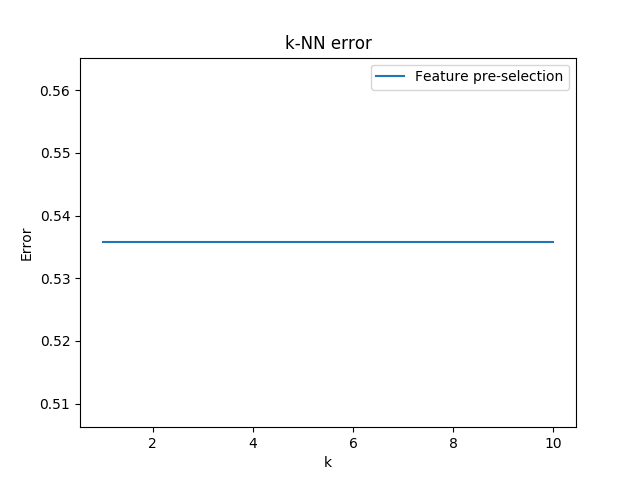
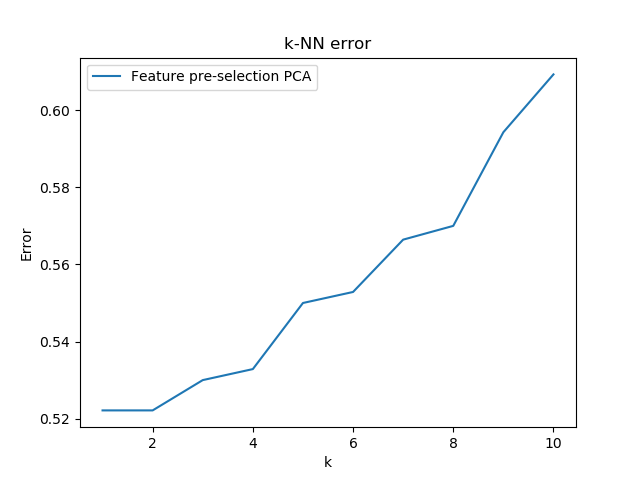
added simple PCA

diff --git a/Coursework 2/kNN.py b/Coursework 2/kNN.py
@@ -12,13 +12,14 @@ from sklearn.metrics import precision_score
 from kNN_manhattan import analyse_KNN_manhattan
 from kNN_euclidian import analyse_KNN_euclidian
 from kNN_improved_feature_preselection import analyse_KNN_feature_preselection
+from kNN_improved_feature_preselection_PCA import analyse_KNN_feature_preselection_PCA
 from kNN_cosine import analyse_KNN_cosine
 
 
 if __name__ == '__main__':
     k = 10
     #methods = ["Manhattan Distance", "Euclidian Distance", "Cosine"]
-    methods = ["Feature pre-selection"]
+    methods = ["Feature pre-selection PCA"]
     results = {}
     for method in methods:
         labels = errors= tops =  true_labels = None
@@ -28,6 +29,8 @@ if __name__ == '__main__':
             labels,errors, tops, true_labels = analyse_KNN_euclidian()
         elif method == "Feature pre-selection":
             labels,errors, tops, true_labels = analyse_KNN_feature_preselection()
+        elif method == "Feature pre-selection PCA":
+            labels,errors, tops, true_labels = analyse_KNN_feature_preselection_PCA()
         elif method == "Cosine":
             labels,errors, tops, true_labels = analyse_KNN_cosine()
         results[method] = [labels,errors, tops]

diff --git a/Coursework 2/kNN_improved_feature_preselection_PCA.py b/Coursework 2/kNN_improved_feature_preselection_PCA.py
@@ -45,7 +45,7 @@ def vote(x, weights):
     return label
 
 
-def analyse_KNN_feature_preselection(k=10):
+def analyse_KNN_feature_preselection_PCA(k=10):
     """
     Analyse and collect all the different results
     with respect to different kNNs tests
@@ -88,6 +88,16 @@ def analyse_KNN_feature_preselection(k=10):
     query_features = normalize(query_features, axis=1)
     training_features = normalize(training_features, axis=1)
     gallery_features = normalize(gallery_features, axis=1)
+
+    pca = PCA(n_components=500)
+    pca.fit(training_features)
+
+    query_features      = pca.transform(query_features)
+    training_features   = pca.transform(training_features)
+    gallery_features    = pca.transform(gallery_features)
+
+    print(gallery_features.shape)
+
 
     #A_s,U_s = find_matrices(training_features, training_labels)
 
